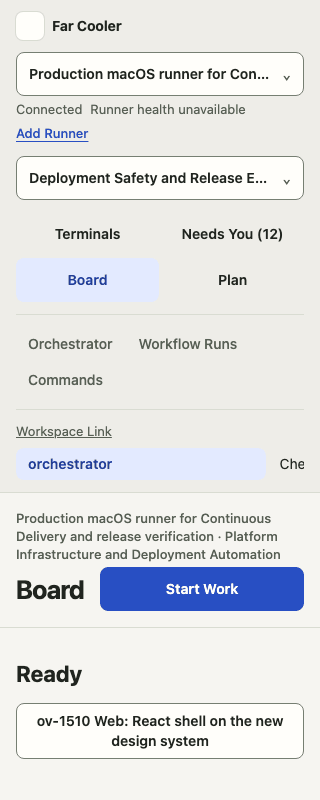
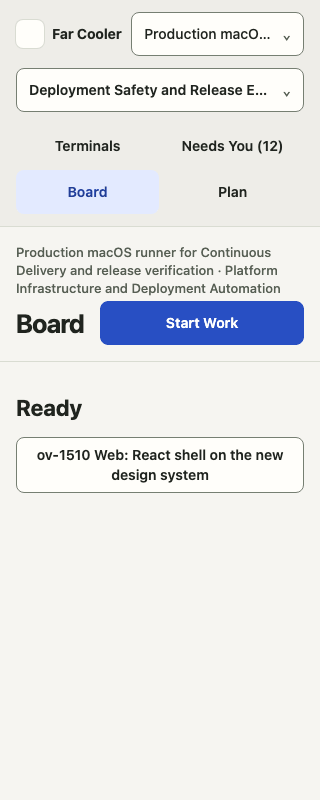
ov-1510: Report the review round, the folded phone header and new captures
- Size and build numbers for the branch rebased onto fb383745f: 5,254,900 B
  under the 5,500,000 B gate, built in 148 s.
- The compact header at 680 px and under, with the measured 426 -> 226 px.
- ov-1509's images and file cards with the tokens, in both themes.
- The 320 px captures under shell/ and views/ refreshed from this round's
  shell-check and csp-check runs.

(cherry picked from commit 8446425b7b78e6de77019c0c72d6b380acea38d5)

diff --git a/reports/ov-1510/README.md b/reports/ov-1510/README.md
@@ -17,18 +17,20 @@ so the views pick them up unchanged.
 
 The size gate is `node scripts/size-gate.mjs dist`, with a limit of
 5,500,000 B. "Before" is main at 29c41d4de, built from a clean copy in
-scratch.
+scratch. "After" is this branch rebased onto fb383745f, so it also carries
+what landed on main in between (ov-1509's chat images among it); the change
+overstates this ticket's share slightly.
 
 | | Before | After | Change |
 |---|---:|---:|---:|
-| Size gate, whole build (Brotli) | 5,095,327 B | 5,251,039 B | +155,712 B (+3.1%) |
-| `app.js` raw | 848,078 B | 1,203,332 B | +355,254 B |
-| `app.js` Brotli q11 | 197,671 B | 299,007 B | +101,336 B |
-| `app.css` raw | 51,827 B | 63,783 B | +11,956 B |
-| `app.css` Brotli q11 | 9,650 B | 11,998 B | +2,348 B |
+| Size gate, whole build (Brotli) | 5,095,327 B | 5,254,900 B | +159,573 B (+3.1%) |
+| `app.js` raw | 848,078 B | 1,209,487 B | +361,409 B |
+| `app.js` Brotli q11 | 197,671 B | 300,372 B | +102,701 B |
+| `app.css` raw | 51,827 B | 67,565 B | +15,738 B |
+| `app.css` Brotli q11 | 9,650 B | 12,629 B | +2,979 B |
 | Icons and manifest (Brotli) | — | 51,841 B | new |
 
-- **Headroom.** 248,961 B remains under the gate.
+- **Headroom.** 245,100 B remains under the gate.
 - **The script.** It is still one chunk, and the build asserts that, so a
   deploy can never strand a lazy chunk. React, React DOM, Base UI and the
   router account for the JS growth.
@@ -39,6 +41,9 @@ scratch.
   |---|---:|---:|
   | Pair 1 | 112.8 s | 80.2 s |
   | Pair 2 | 113.8 s | 130.1 s |
+
+  After the rebase, one more build of the branch took 148 s at a load
+  average of about 20.
 
   Brotli of the Tailcat wasm dominates the build; the Vite step is a few
   seconds of it.
@@ -83,6 +88,22 @@ widths. They are not copied here, to keep the repository small. Run it with
 | 681–1079 px | sidebar and page; the pane sits under the page |
 | 680 px and under | one column: the sidebar is a compact header, the views a 2×2 grid; the page and pane are each a screen tall |
 
+**The compact header.** At 680 px and under, the header is the brand, the
+workspace picker and the views, as in ov-1483's phone board:
+
+- The runner block (picker or name, health, Add Runner) and the tools
+  (Orchestrator, Workflow Runs, Commands) fold behind one button in the brand
+  row. The button shows the runner's name, and its accessible name adds
+  "Runner and Tools".
+- A lost connection still shows: Reconnect sits on every view, with its
+  message, whether or not the runner block is open.
+- The terminal strip shows only on Terminals. Elsewhere the Terminals view is
+  one tap away.
+
+At 320 px the board's page header now starts 226 px down; before this it was
+426 px. `shell-check` asserts at most 260 px, and both the bound and the
+folded focus order go red when the fold is removed.
+
 Every control is at least 44 px tall at phone width. The audited pages have
 no sideways scroll at any of the three widths.
 
@@ -123,6 +144,13 @@ control edges and the focus ring need 3:1.
 
 Each row is the worst case over the surfaces listed.
 
+**ov-1509's images and files in the shell.** `chat-files-check` serves the
+conversation with the full stylesheet, tokens included. It frames the view in
+its own stand-in sidebar, not the shell, so its 320 capture is narrower than
+the app's. Sent images and file cards take the token surfaces in both themes:
+[light 1280](views/agent-files-light-1280.png) ·
+[dark 320](views/agent-files-dark-320.png).
+
 ## 3. App icon
 
 `services/web/src/client/icons/app-icon-1024.png` is the master, copied from
@@ -149,6 +177,7 @@ All of these ran on this branch, in the foreground:
 | `work-check.mjs` | 18 of 18 passed |
 | `board-check.mjs` | passed |
 | `chat-check.mjs` | passed |
+| `chat-files-check.mjs` (ov-1509, from main) | passed, after the rebase |
 | `plan-render-check.mjs` | passed |
 | `review-check.mjs` (with the `web_review_browser_bridge` fixture) | passed |
 | `needs-capture`, `plan-capture`, `workflow-cancelled-capture` | passed, no overflow |
@@ -164,6 +193,9 @@ shell:
   Orchestrator, Workflow Runs, Commands, Workspace Link, each terminal, Start
   Work, the page's content, then the account (attention count, Saved Copies,
   Sign Out).
+  At 320 px the first stop is the runner's button, and Tab goes from it
+  straight to the workspace picker; once it is open, the walk is the one
+  above, without the terminal strip, since the page is the board.
 - **Pickers.** Both open from the keyboard, move and choose with the arrow
   keys and Enter, and return focus to their trigger. Escape closes one without
   choosing. A runner this browser can't use is disabled and can't be chosen.
@@ -226,6 +258,24 @@ machine. Each value is the median over the five runs, in ms:
 The shell re-renders only when its view model changes. A write that changes
 nothing notifies no one, so terminal output and chat rows never re-render
 React.
+
+### Review round
+
+The first review found two things, both fixed on this branch:
+
+1. **ov-1509's check broke on the rebase.** `chat-files-check.mjs` built its
+   page CSS from `app.css` and `chat.css` only. On this branch the colors
+   live in `tokens.css`, so every run timed out waiting for an image. It now
+   uses `styles()`, like `chat-check`. No other check on main splices CSS, or
+   splices the bundle as a replacement string.
+2. **The phone header was too tall.** It is now folded, as described under
+   "The compact header".
+
+Re-run after these changes, in the foreground: `shell-check`, `chat-check`,
+`chat-files-check`, `board-check`, `work-check` (18 of 18), `tsc` for both
+configs, and the `csp-check` walk over the fake daemon, which passed with no
+CSP violations in 4 min 23 s. The 320 px captures under `shell/` and
+`views/` come from these runs.
 
 ## Decisions taken without asking
 
